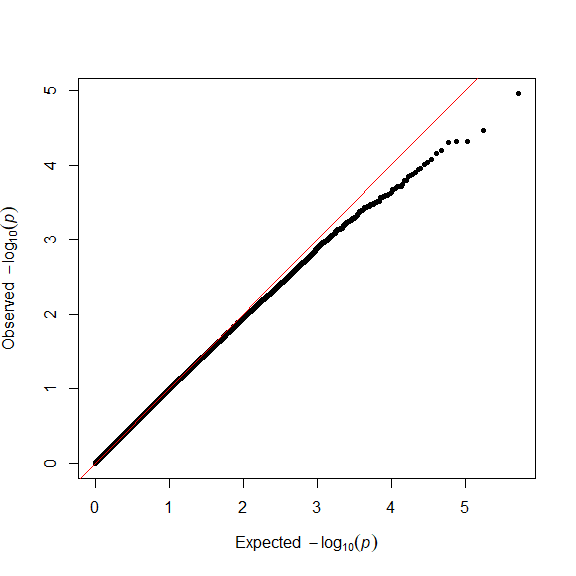
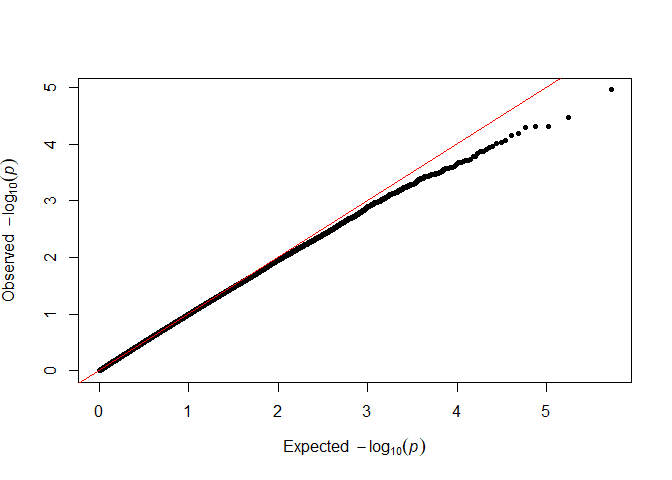
changed figure size

diff --git a/Childhood_ALL_GWAS.md b/Childhood_ALL_GWAS.md
@@ -58,14 +58,14 @@ Method
 </tbody>
 </table>
 
-<img src="Childhood_ALL_GWAS_files/figure-markdown_strict/unnamed-chunk-5-1.png" alt="Figure 3: QQ plot"  />
+<img src="Childhood_ALL_GWAS_files/figure-markdown_strict/unnamed-chunk-5-1.png" alt="Figure 3: QQ plot" width="75%" />
 <p class="caption">
 Figure 3: QQ plot
 </p>
 
     knitr::include_graphics("Circular-Manhattan.P.jpg")
 
-<img src="Circular-Manhattan.P.jpg" alt="Figure 4: Circular Manhattan plot" width="3000" />
+<img src="Circular-Manhattan.P.jpg" alt="Figure 4: Circular Manhattan plot" width="80%" />
 <p class="caption">
 Figure 4: Circular Manhattan plot
 </p>
